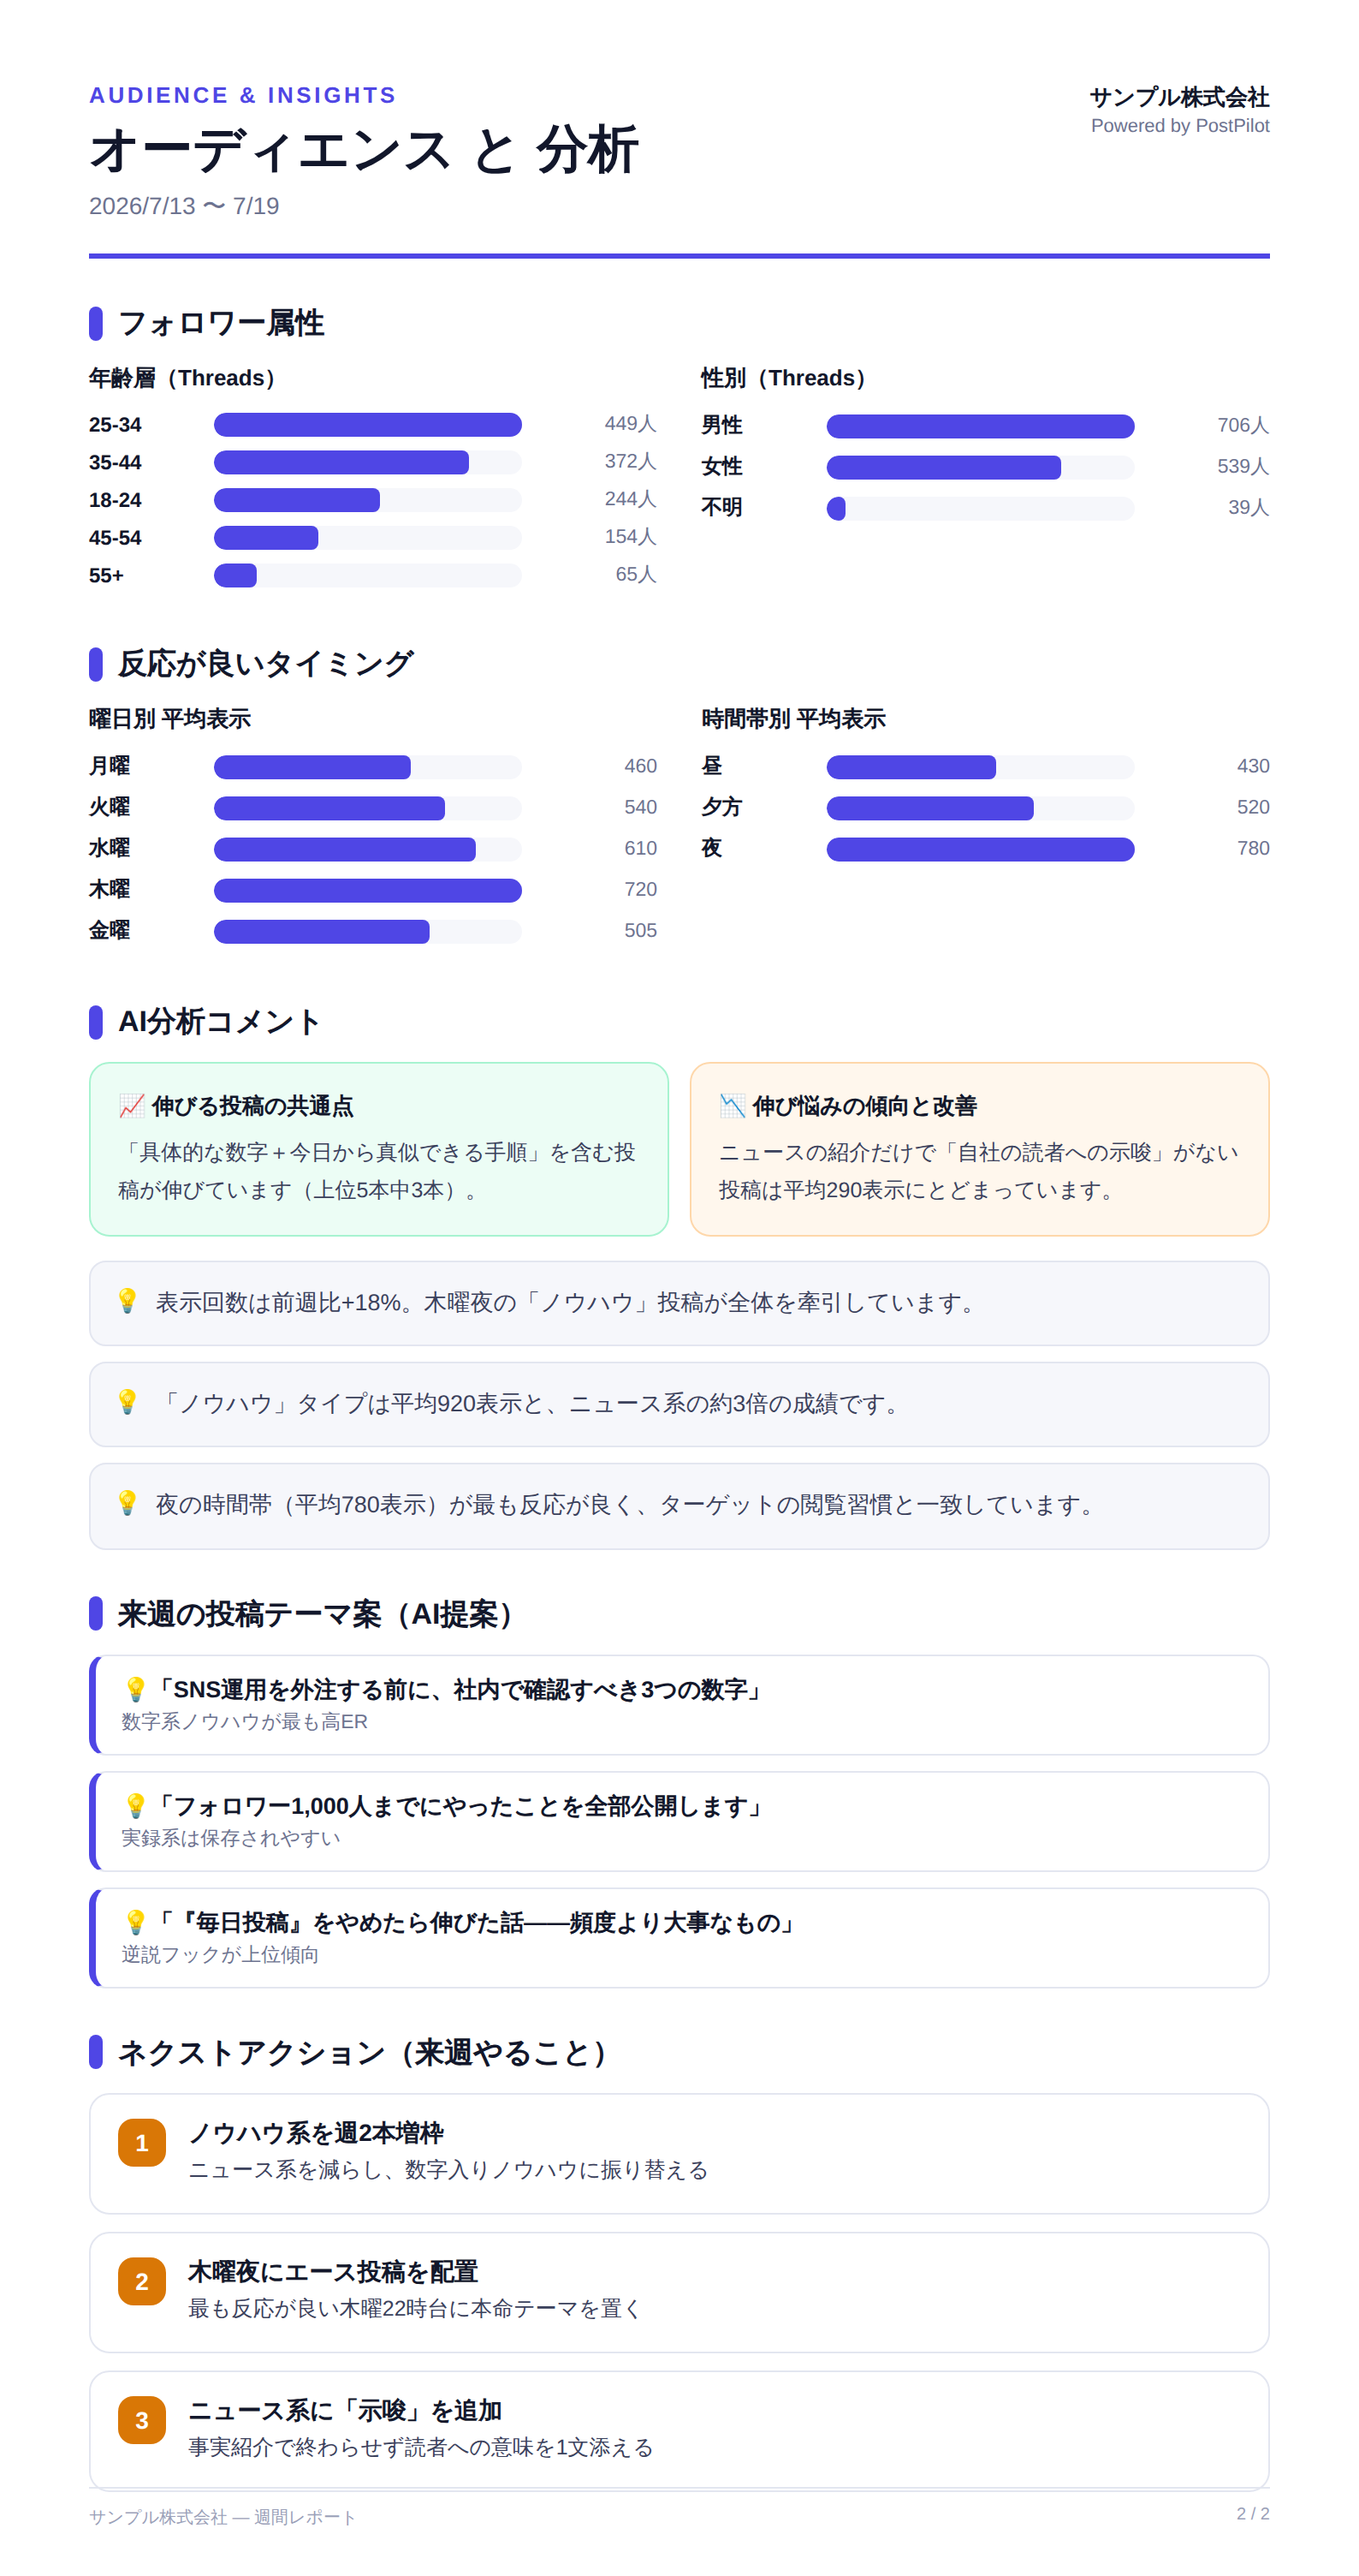
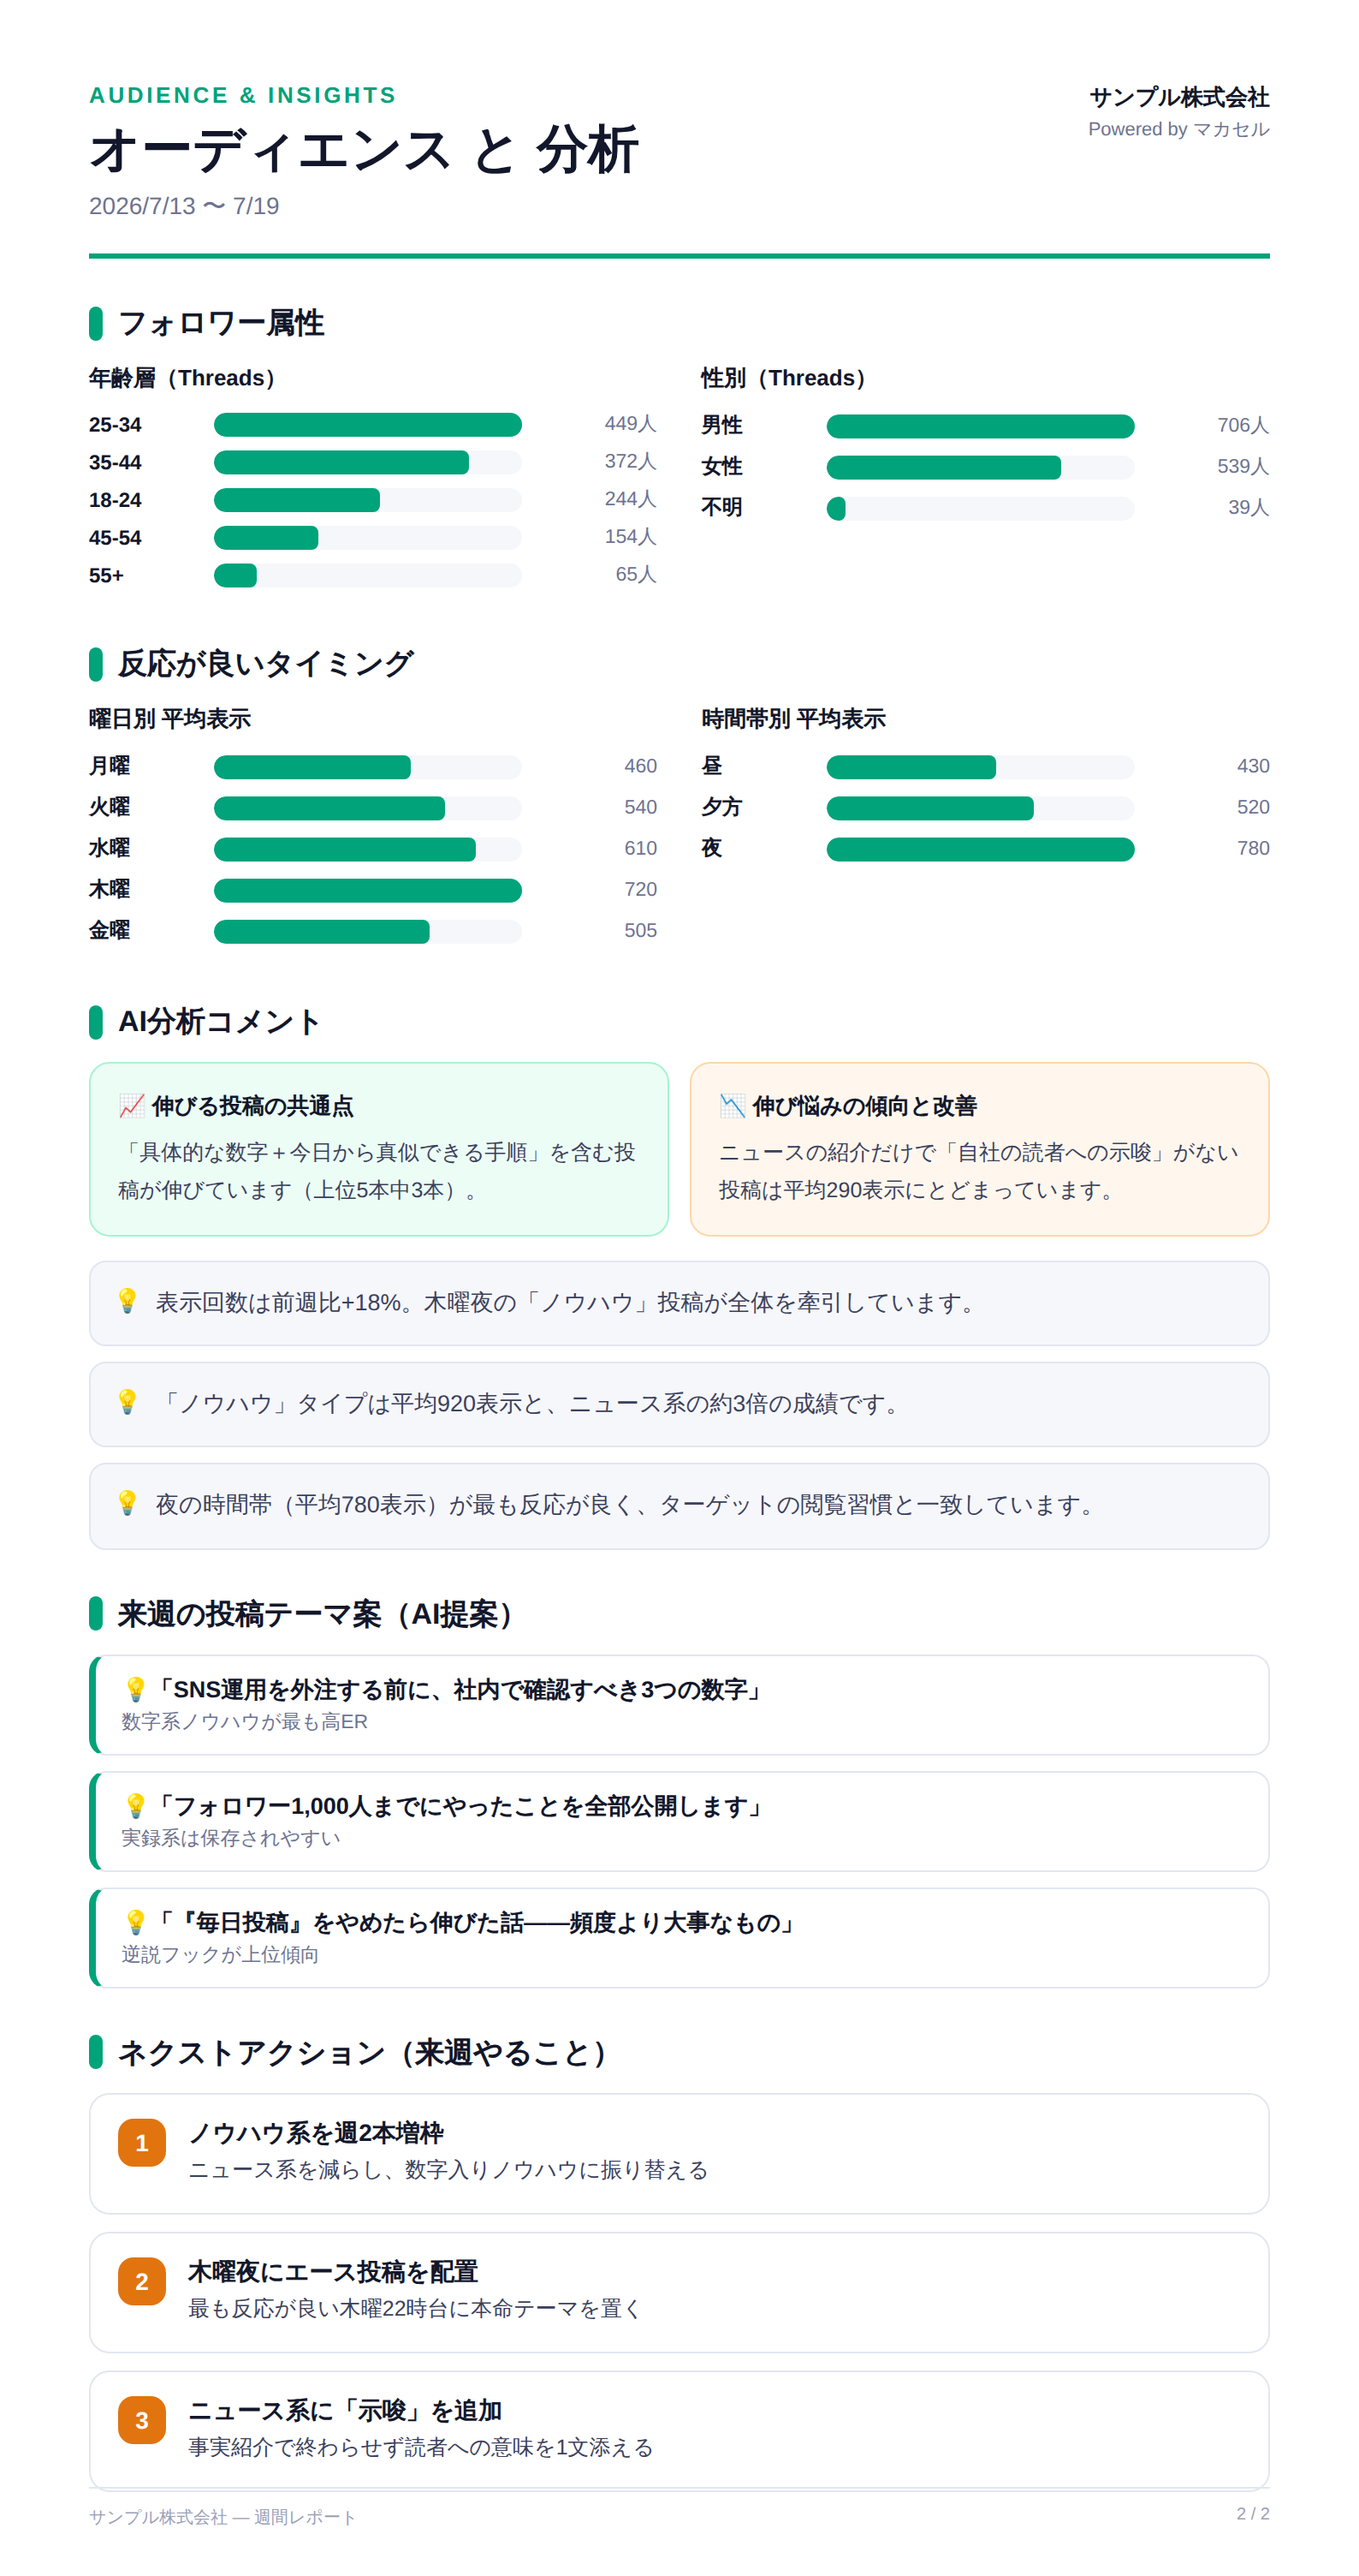
fix: LP掲載のレポート画像に残っていた旧ブランド表記を差し替え
LPのレポートサンプル画像に「Powered by PostPilot」と旧インディゴ配色が
残っていたため、マカセルのブランドに揃えた。

- report.py: サービス名を branding.service_name で設定可能にし、既定を「マカセル」に
- report.py / config.yaml / clients/imadoki.yaml: 配色をブランドグリーン＋オレンジに
- tools/lp/make_report_samples.py を追加し、LP掲載サンプルを再生成できるようにした
- docs/assets/report_sample_1.png / _2.png を再生成（内容は従来と同じダミーデータ）

Claude-Session: https://claude.ai/code/session_01WQUaFtw7yeVwbriHxzH6c9

diff --git a/tools/lp/make_report_samples.py b/tools/lp/make_report_samples.py
@@ -1,0 +1,118 @@
+# -*- coding: utf-8 -*-
+"""LPに掲載している週間レポートのサンプル画像を再生成するスクリプト。
+
+sns_scheduler/report.py のレンダラをそのまま使い、LP掲載用のサンプルデータを
+1ページずつ PNG にする。レポートのデザイン・配色・「Powered by マカセル」表記を
+変更したら、これを実行して docs/assets/report_sample_1.png /
+report_sample_2.png を更新する。
+
+サンプルの数値・投稿文はLP用のダミー（report.py の demo_data は別クライアント
+向けの題材のため、LPには使わない）。
+
+使い方:
+    python3 tools/lp/make_report_samples.py
+環境変数 CHROME_PATH で Chromium のパスを指定可。
+"""
+
+import os
+import sys
+
+REPO_ROOT = os.path.dirname(os.path.dirname(os.path.dirname(os.path.abspath(__file__))))
+sys.path.insert(0, os.path.join(REPO_ROOT, "sns_scheduler"))
+
+import report  # noqa: E402
+
+# LP掲載用のダミー社名（実際のクライアント名を出さない）
+report.COMPANY = "サンプル株式会社"
+
+OUT_DIR = os.path.join(REPO_ROOT, "docs", "assets")
+
+# ── LP掲載用のサンプルデータ（SNS運用アカウントを想定したダミー）────────
+RANKING = [
+    {"head": "「インスタのフォロワー数」より大事な数字、実は1つだけ…",
+     "type": "ノウハウ", "imp": 3240, "likes": 74, "rts": 18, "er": 2.3, "dt": "7/16 20:00"},
+    {"head": "SNS担当が1人で消耗する会社と、仕組みで回る会社の違い…",
+     "type": "あるある", "imp": 2810, "likes": 61, "rts": 15, "er": 2.2, "dt": "7/17 21:30"},
+    {"head": "広告費ゼロで月1,000人に届いた投稿がやっていた3つのこと…",
+     "type": "ノウハウ", "imp": 2150, "likes": 47, "rts": 9, "er": 2.2, "dt": "7/15 18:30"},
+    {"head": "「バズらなくていい」中小企業のSNSが目指すべき数字の話…",
+     "type": "共感", "imp": 1780, "likes": 39, "rts": 7, "er": 2.2, "dt": "7/14 12:15"},
+    {"head": "AIに投稿を書かせたら炎上しない？企業アカウントの安全設計…",
+     "type": "ノウハウ", "imp": 1420, "likes": 28, "rts": 6, "er": 2.0, "dt": "7/13 20:00"},
+]
+
+SAMPLE_DATA = {
+    "mode": "weekly", "date": "2026-07-20", "period_label": "2026/7/13 〜 7/19",
+    "cur": {"count": 35, "imp": 18420, "likes": 402, "rts": 88, "th_views": 5210, "th_likes": 96},
+    "prev": {"count": 31, "imp": 15610, "likes": 350, "rts": 74, "th_views": 4378, "th_likes": 82},
+    "ranking": RANKING,
+    "all_posts": RANKING,
+    "type_analysis": [
+        {"label": "ノウハウ", "count": 14, "avg_imp": 920, "avg_er": 2.2},
+        {"label": "あるある", "count": 9, "avg_imp": 610, "avg_er": 2.4},
+        {"label": "共感", "count": 7, "avg_imp": 480, "avg_er": 1.9},
+        {"label": "ニュース", "count": 5, "avg_imp": 290, "avg_er": 1.3},
+    ],
+    "goal_imp": 80000, "goal_progress": 54300,
+    "patterns": {
+        "weekday": [{"label": "月曜", "avg": 460}, {"label": "火曜", "avg": 540},
+                    {"label": "水曜", "avg": 610}, {"label": "木曜", "avg": 720},
+                    {"label": "金曜", "avg": 505}],
+        "timeslot": [{"label": "昼", "avg": 430}, {"label": "夕方", "avg": 520},
+                     {"label": "夜", "avg": 780}],
+    },
+    "audience": {
+        "followers": 1284,
+        "age": [{"label": "25-34", "value": 449}, {"label": "35-44", "value": 372},
+                {"label": "18-24", "value": 244}, {"label": "45-54", "value": 154},
+                {"label": "55+", "value": 65}],
+        "gender": [{"label": "M", "value": 706}, {"label": "F", "value": 539},
+                   {"label": "U", "value": 39}],
+    },
+}
+
+SAMPLE_INSIGHTS = {
+    "analysis": [
+        "表示回数は前週比+18%。木曜夜の「ノウハウ」投稿が全体を牽引しています。",
+        "「ノウハウ」タイプは平均920表示と、ニュース系の約3倍の成績です。",
+        "夜の時間帯（平均780表示）が最も反応が良く、ターゲットの閲覧習慣と一致しています。",
+    ],
+    "win_pattern": "「具体的な数字＋今日から真似できる手順」を含む投稿が伸びています（上位5本中3本）。",
+    "lose_pattern": "ニュースの紹介だけで「自社の読者への示唆」がない投稿は平均290表示にとどまっています。",
+    "theme_ideas": [
+        {"title": "SNS運用を外注する前に、社内で確認すべき3つの数字", "reason": "数字系ノウハウが最も高ER"},
+        {"title": "フォロワー1,000人までにやったことを全部公開します", "reason": "実録系は保存されやすい"},
+        {"title": "『毎日投稿』をやめたら伸びた話——頻度より大事なもの", "reason": "逆説フックが上位傾向"},
+    ],
+    "next_actions": [
+        {"title": "ノウハウ系を週2本増枠", "detail": "ニュース系を減らし、数字入りノウハウに振り替える"},
+        {"title": "木曜夜にエース投稿を配置", "detail": "最も反応が良い木曜22時台に本命テーマを置く"},
+        {"title": "ニュース系に「示唆」を追加", "detail": "事実紹介で終わらせず読者への意味を1文添える"},
+    ],
+}
+
+
+def main():
+    from playwright.sync_api import sync_playwright
+
+    html = report.build_html(SAMPLE_DATA, SAMPLE_INSIGHTS)
+
+    launch_kwargs = {"args": ["--no-sandbox", "--disable-dev-shm-usage"]}
+    chrome_path = os.environ.get("CHROME_PATH")
+    if chrome_path and os.path.exists(chrome_path):
+        launch_kwargs["executable_path"] = chrome_path
+
+    with sync_playwright() as p:
+        browser = p.chromium.launch(**launch_kwargs)
+        page = browser.new_page(viewport={"width": 794, "height": 1123}, device_scale_factor=2)
+        page.set_content(html, wait_until="load")
+        page.wait_for_function("document.fonts.status === 'loaded'", timeout=15000)
+        for i, el in enumerate(page.query_selector_all(".page"), start=1):
+            path = os.path.join(OUT_DIR, f"report_sample_{i}.png")
+            el.screenshot(path=path)
+            print("生成:", os.path.relpath(path, REPO_ROOT))
+        browser.close()
+
+
+if __name__ == "__main__":
+    main()

diff --git a/sns_scheduler/report.py b/sns_scheduler/report.py
@@ -70,8 +70,9 @@ PROP_THREADS_VIEWS = _cfg("notion", "properties", "threads_views", default="Thre
 PROP_POST_TYPE     = _cfg("notion", "properties", "post_type",     default="投稿タイプ")
 STATUS_DONE        = _cfg("notion", "status", "done", default="投稿済")
 COMPANY            = _cfg("company", "name", default="")
-PRIMARY            = _cfg("branding", "primary_color", default="#4f46e5")
-ACCENT             = _cfg("branding", "accent_color",  default="#ea580c")
+PRIMARY            = _cfg("branding", "primary_color", default="#00a37a")
+ACCENT             = _cfg("branding", "accent_color",  default="#e2740f")
+SERVICE            = _cfg("branding", "service_name",  default="マカセル")
 # 月間KPI目標（config.yamlの report.monthly_goal_impressions。0なら非表示）
 GOAL_IMP           = int(_cfg("report", "monthly_goal_impressions", default=0) or 0)
 
@@ -584,7 +585,7 @@ background:#eef0fd;border-radius:999px;padding:1px 8px;}}
   <div class="head">
     <div><div class="t1">SNS AUTO-PILOT REPORT</div><h1>📊 {title}</h1>
       <div class="period">{data["period_label"]}</div></div>
-    <div class="corp">{COMPANY}<small>Powered by PostPilot</small></div>
+    <div class="corp">{COMPANY}<small>Powered by {SERVICE}</small></div>
   </div>
 
   <h2>サマリー</h2>
@@ -611,7 +612,7 @@ background:#eef0fd;border-radius:999px;padding:1px 8px;}}
   <div class="head">
     <div><div class="t1">AUDIENCE & INSIGHTS</div><h1>オーディエンス と 分析</h1>
       <div class="period">{data["period_label"]}</div></div>
-    <div class="corp">{COMPANY}<small>Powered by PostPilot</small></div>
+    <div class="corp">{COMPANY}<small>Powered by {SERVICE}</small></div>
   </div>
 
   <h2>フォロワー属性</h2>
